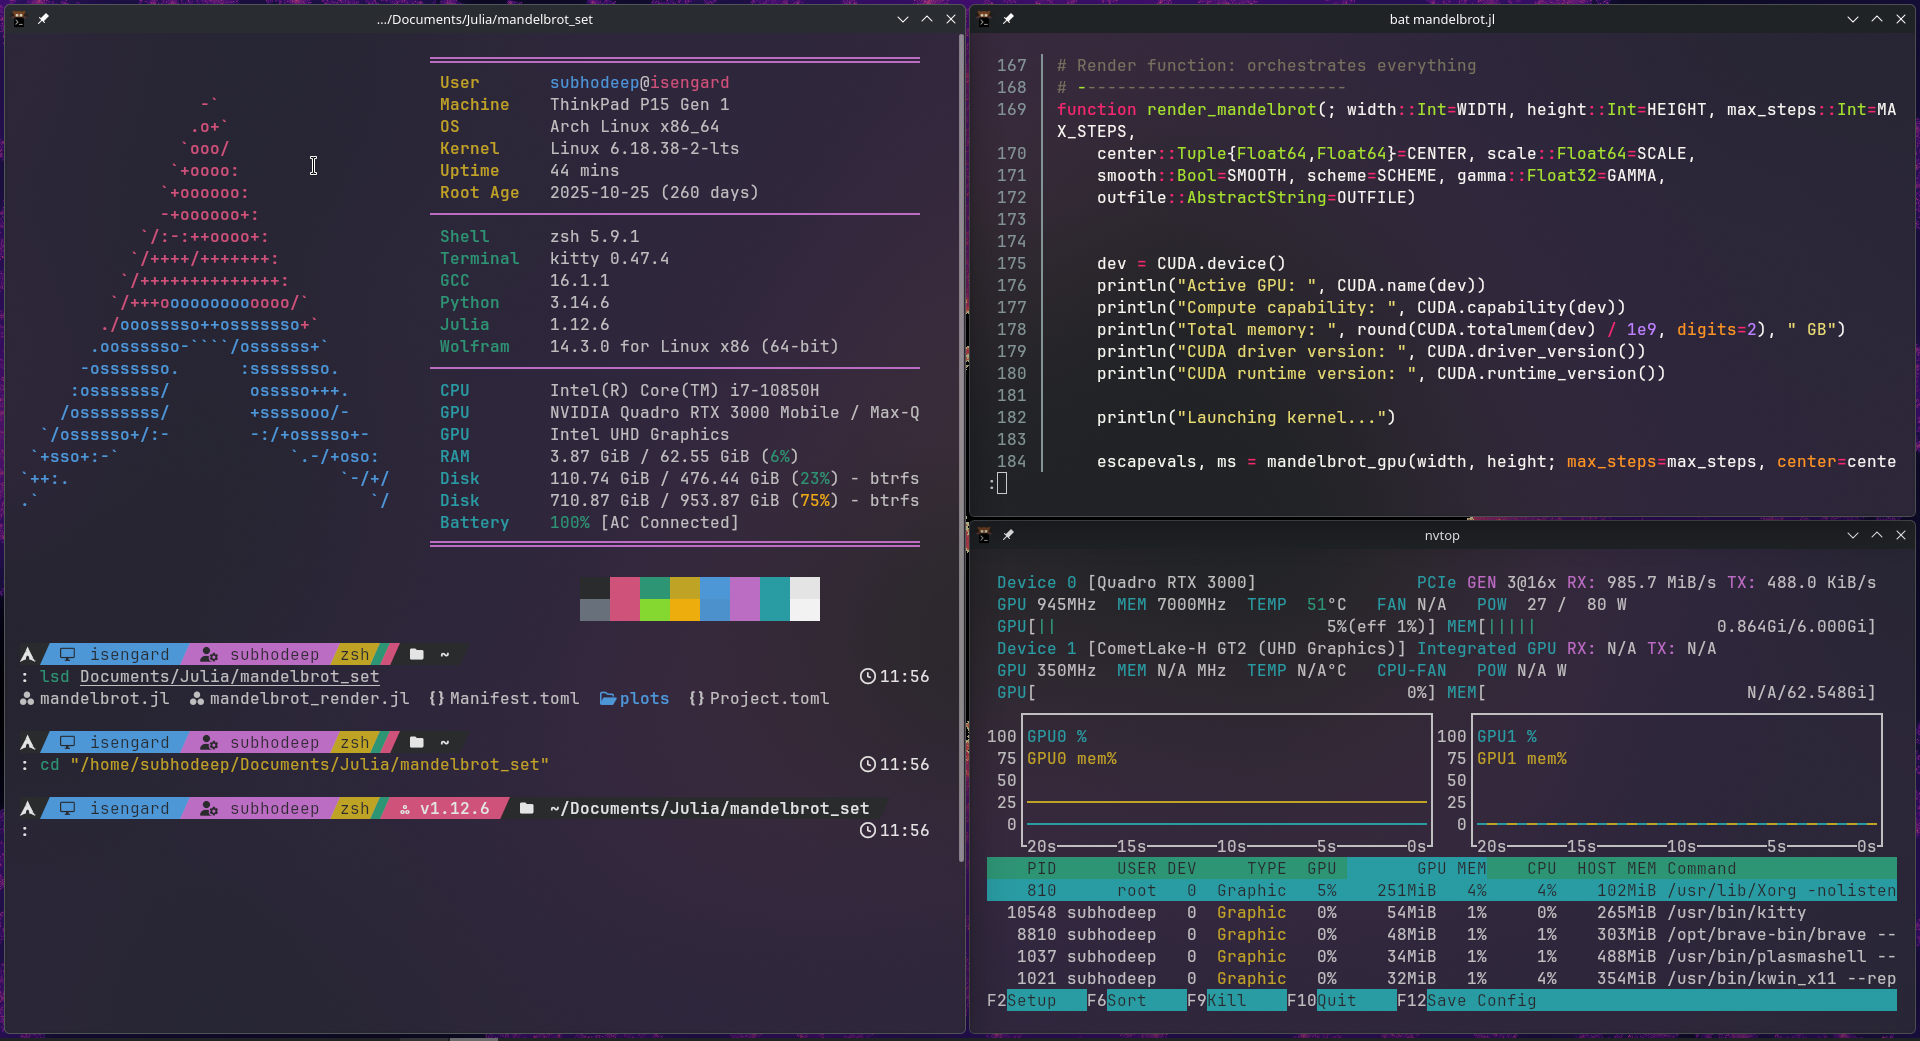
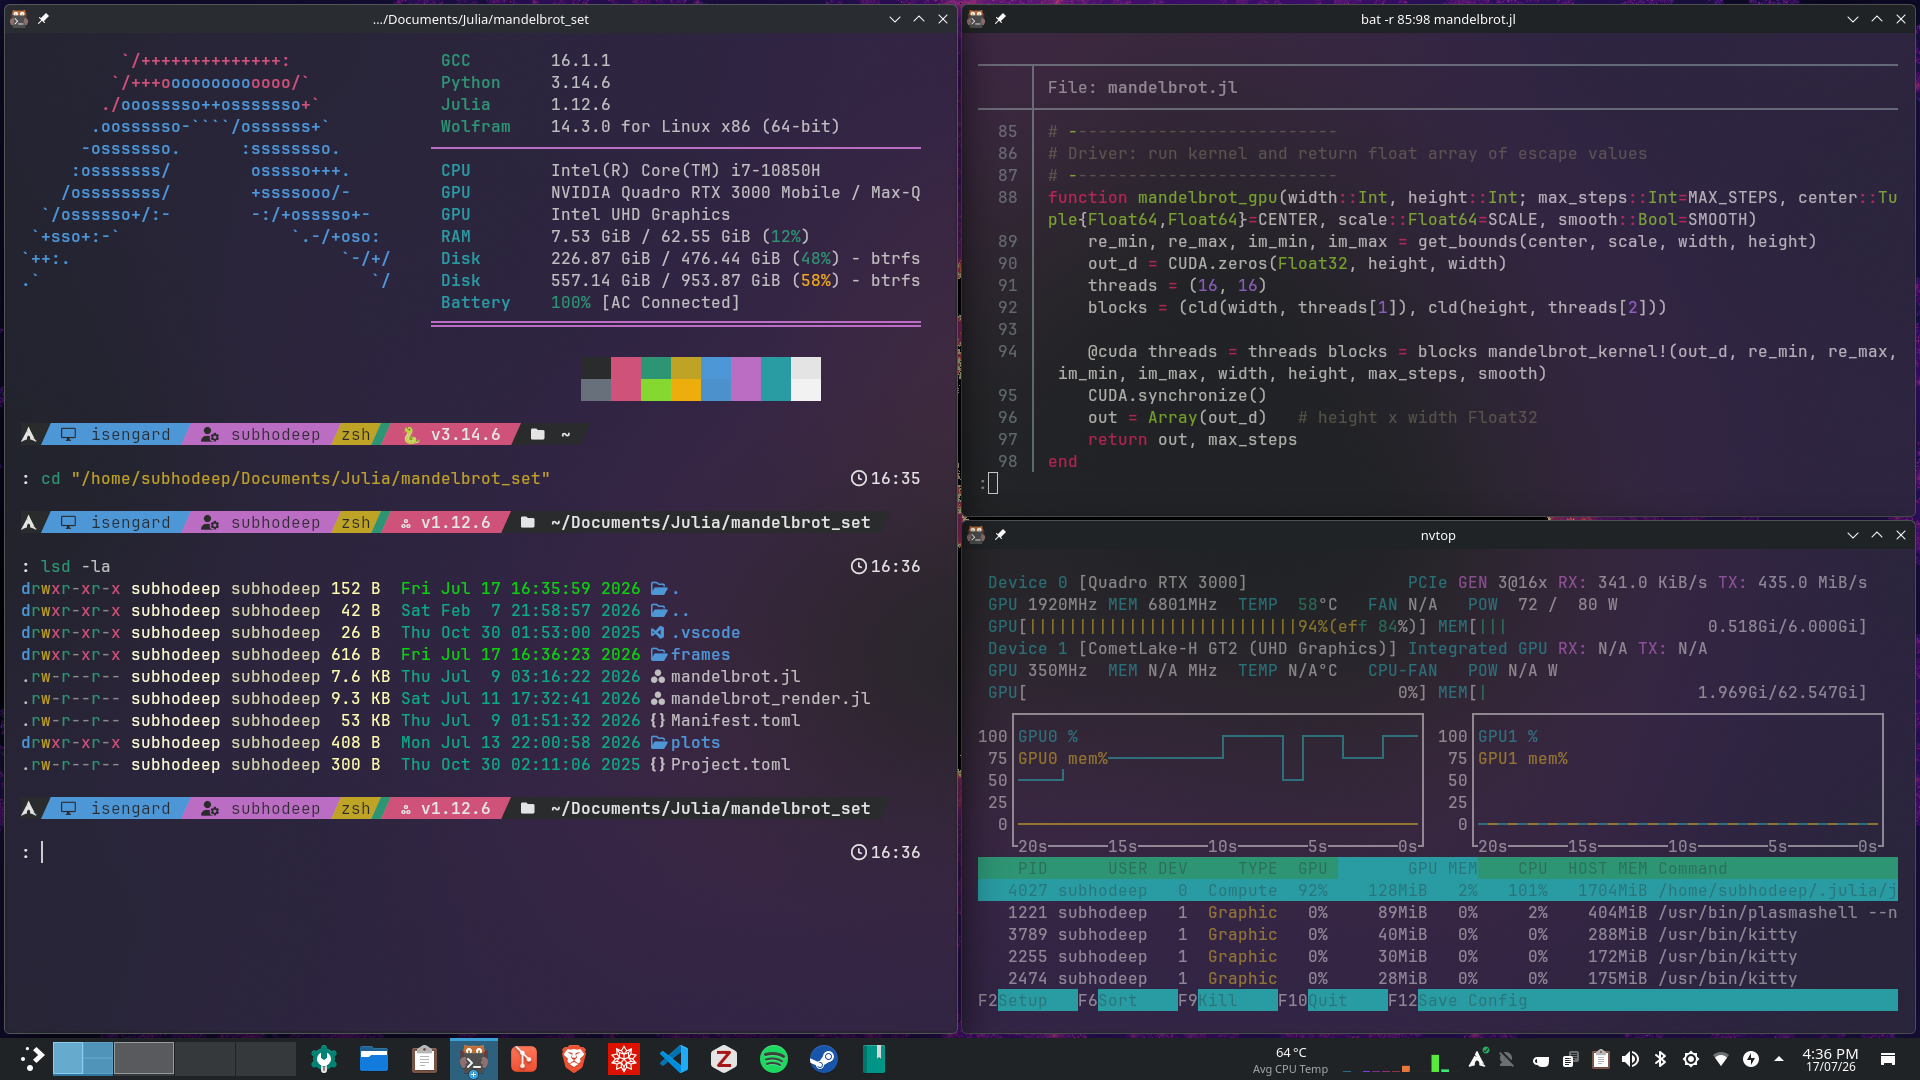
updated screenshot

diff --git a/zotero/prefs.js b/zotero/prefs.js
@@ -9,9 +9,9 @@
 // - modify it via the UI (e.g. via about:config in the browser); or
 // - set it within a user.js file in your profile.
 
-user_pref("app.update.lastUpdateTime.addon-background-update-timer", 1784029592);
-user_pref("app.update.lastUpdateTime.background-update-timer", 1784072792);
-user_pref("app.update.lastUpdateTime.xpi-signature-verification", 1784029592);
+user_pref("app.update.lastUpdateTime.addon-background-update-timer", 1784255263);
+user_pref("app.update.lastUpdateTime.background-update-timer", 1784255263);
+user_pref("app.update.lastUpdateTime.xpi-signature-verification", 1784255263);
 user_pref("browser.laterrun.bookkeeping.profileCreationTime", 1780384200);
 user_pref("browser.laterrun.bookkeeping.sessionCount", 1);
 user_pref("browser.startup.homepage_override.buildID", "20260414220523");
@@ -39,9 +39,9 @@ user_pref("extensions.zotero.import.fileHandling", "copy");
 user_pref("extensions.zotero.inspiremeta.external_token", "FkK-DhRLRt0q9IGZyFe0zII2P5XYx9FiWaiJvQ-IVJs");
 user_pref("extensions.zotero.inspiremeta.funding_pref_migrated", true);
 user_pref("extensions.zotero.lastSelectedPrefPane", "zotero-prefpane-general");
-user_pref("extensions.zotero.lastViewedFolder", "C262");
+user_pref("extensions.zotero.lastViewedFolder", "C68");
 user_pref("extensions.zotero.lastWebDAVOrphanPurge", 1783772953);
-user_pref("extensions.zotero.pane.persist", "{\"zotero-reader-sidebar-pane\":{\"collapsed\":\"true\"},\"zotero-collections-pane\":{\"width\":\"424\"},\"zotero-collections-splitter\":{\"state\":\"\"},\"zotero-layout-switcher\":{\"orient\":\"horizontal\"},\"zotero-items-splitter\":{\"state\":\"open\",\"orient\":\"horizontal\"},\"zotero-item-pane\":{\"width\":\"337\",\"height\":\"205\"},\"zotero-context-splitter\":{\"state\":\"collapsed\"},\"zotero-context-splitter-stacked\":{\"state\":\"collapsed\"},\"zotero-tags-splitter\":{\"state\":\"\"},\"zotero-tag-selector-container\":{\"height\":\"115\"}}");
+user_pref("extensions.zotero.pane.persist", "{\"zotero-reader-sidebar-pane\":{\"collapsed\":\"true\"},\"zotero-collections-pane\":{\"width\":\"323\"},\"zotero-collections-splitter\":{\"state\":\"\"},\"zotero-layout-switcher\":{\"orient\":\"horizontal\"},\"zotero-items-splitter\":{\"state\":\"\",\"orient\":\"horizontal\"},\"zotero-item-pane\":{\"width\":\"591\",\"height\":\"205\"},\"zotero-context-splitter\":{\"state\":\"collapsed\"},\"zotero-context-splitter-stacked\":{\"state\":\"collapsed\"},\"zotero-tags-splitter\":{\"state\":\"\"},\"zotero-tag-selector-container\":{\"height\":\"115\"}}");
 user_pref("extensions.zotero.panes.abstract.open", true);
 user_pref("extensions.zotero.panes.attachment-annotations.open", true);
 user_pref("extensions.zotero.panes.attachment-info.open", true);
@@ -58,12 +58,14 @@ user_pref("extensions.zotero.panes.zoplicate\\@chenglongma\\.com-non-duplicates-
 user_pref("extensions.zotero.panes.zoteroinspire\\@itp\\.ac\\.cn-zoteroinspire-references.open", true);
 user_pref("extensions.zotero.postUpgradeBannerVersionShown", 9);
 user_pref("extensions.zotero.prefVersion", 22);
+user_pref("extensions.zotero.purge.creators", true);
 user_pref("extensions.zotero.purge.fulltext", true);
+user_pref("extensions.zotero.purge.items", true);
 user_pref("extensions.zotero.purge.tags", true);
 user_pref("extensions.zotero.reader.darkTheme", "custom1");
-user_pref("extensions.zotero.recentSaveTargets", "[{\"id\":\"C54\",\"sessionID\":\"9rLdv1iZ\"},{\"id\":\"C3\",\"sessionID\":\"MU523hpA\"}]");
+user_pref("extensions.zotero.recentSaveTargets", "[{\"id\":\"C3\",\"sessionID\":\"MU523hpA\"},{\"id\":\"C54\",\"sessionID\":\"9rLdv1iZ\"},{\"id\":\"C267\",\"sessionID\":\"0T3NoxAY\"},{\"id\":\"C68\",\"sessionID\":\"SlgtbIAE\"},{\"id\":\"C2\",\"sessionID\":\"NMX1cDNH\"},{\"id\":\"C269\",\"sessionID\":\"pkwrTOSn\"},{\"id\":\"C270\",\"sessionID\":\"qLN5tS8b\"}]");
 user_pref("extensions.zotero.sidebarState", "{\"library\":{\"width\":240,\"open\":false},\"reader\":{\"width\":240,\"open\":false}}");
-user_pref("extensions.zotero.sourceList.persist", "{\"L1\":true,\"C62\":true,\"P1\":false,\"C45\":true,\"C80\":true,\"C264\":true,\"C103\":true}");
+user_pref("extensions.zotero.sourceList.persist", "{\"L1\":true,\"P1\":false,\"C264\":true,\"C103\":true,\"C2\":true,\"C80\":true,\"C160\":true,\"C159\":true,\"C153\":true,\"C148\":true,\"C146\":true,\"C134\":true,\"C130\":true,\"C32\":true,\"C253\":true,\"C67\":true,\"C60\":true,\"C66\":true,\"C33\":true,\"C12\":true,\"C14\":true,\"C23\":true,\"C69\":true,\"C136\":true,\"C138\":true,\"C271\":true}");
 user_pref("extensions.zotero.sync.server.username", "noir1993");
 user_pref("extensions.zotero.sync.storage.protocol", "webdav");
 user_pref("extensions.zotero.sync.storage.url", "app.koofr.net/dav/Koofr");
@@ -85,12 +87,18 @@ user_pref("extensions.zotero.zoteroaddons.tagColumnLayoutMigrated", true);
 user_pref("extensions.zotero.zoteroaddonscolumns", "[{\"dataKey\":\"menu-name\",\"hidden\":false,\"ordinal\":0},{\"dataKey\":\"menu-desc\",\"hidden\":false,\"ordinal\":1},{\"dataKey\":\"menu-star\",\"hidden\":false,\"ordinal\":2,\"width\":50},{\"dataKey\":\"menu-tags\",\"hidden\":false,\"ordinal\":3,\"width\":96},{\"dataKey\":\"menu-remote-update-time\",\"hidden\":false,\"ordinal\":4,\"width\":150},{\"dataKey\":\"menu-remote-version\",\"hidden\":false,\"ordinal\":5,\"width\":100},{\"dataKey\":\"menu-local-version\",\"hidden\":false,\"ordinal\":6,\"width\":85},{\"dataKey\":\"menu-install-state\",\"hidden\":false,\"ordinal\":7,\"width\":95}]");
 user_pref("extensions.zoteroOpenOfficeIntegration.lastAttemptedVersion", "9.0.0.SOURCE");
 user_pref("gecko.handlerService.defaultHandlersVersion", 1);
-user_pref("idle.lastDailyNotification", 1784029796);
+user_pref("idle.lastDailyNotification", 1784255702);
 user_pref("intl.accept_languages", "en-US, en");
+user_pref("media.gmp-gmpopenh264.abi", "x86_64-gcc3");
[1 lines of base64/hex data omitted]
+user_pref("media.gmp-gmpopenh264.lastDownload", 1784115994);
+user_pref("media.gmp-gmpopenh264.lastInstallStart", 1784115993);
+user_pref("media.gmp-gmpopenh264.lastUpdate", 1784115994);
+user_pref("media.gmp-gmpopenh264.version", "2.6.0");
 user_pref("media.gmp.storage.version.observed", 1);
 user_pref("privacy.bounceTrackingProtection.hasMigratedUserActivationData", true);
 user_pref("privacy.purge_trackers.date_in_cookie_database", "0");
-user_pref("privacy.purge_trackers.last_purge", "1784029796582");
+user_pref("privacy.purge_trackers.last_purge", "1784255702242");
 user_pref("storage.vacuum.last.content-prefs.sqlite", 1780660886);
 user_pref("storage.vacuum.last.index", 1);
 user_pref("storage.vacuum.last.places.sqlite", 1783772680);